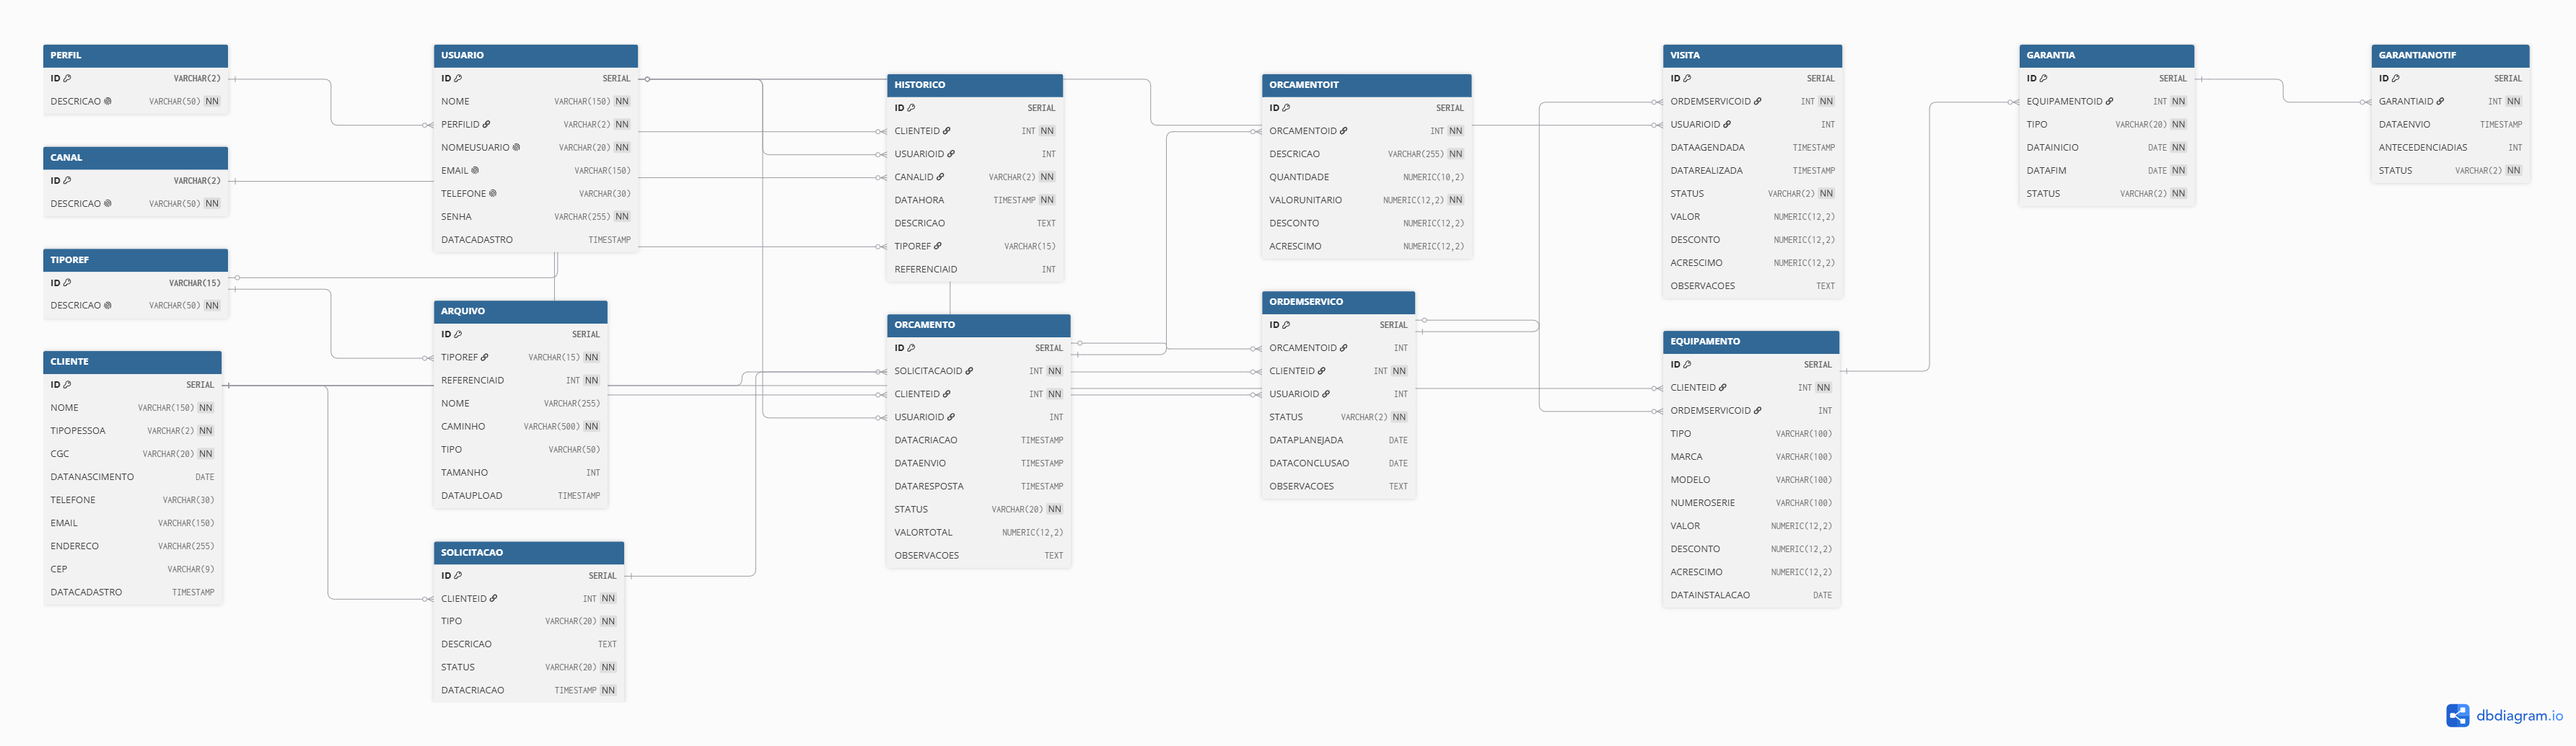
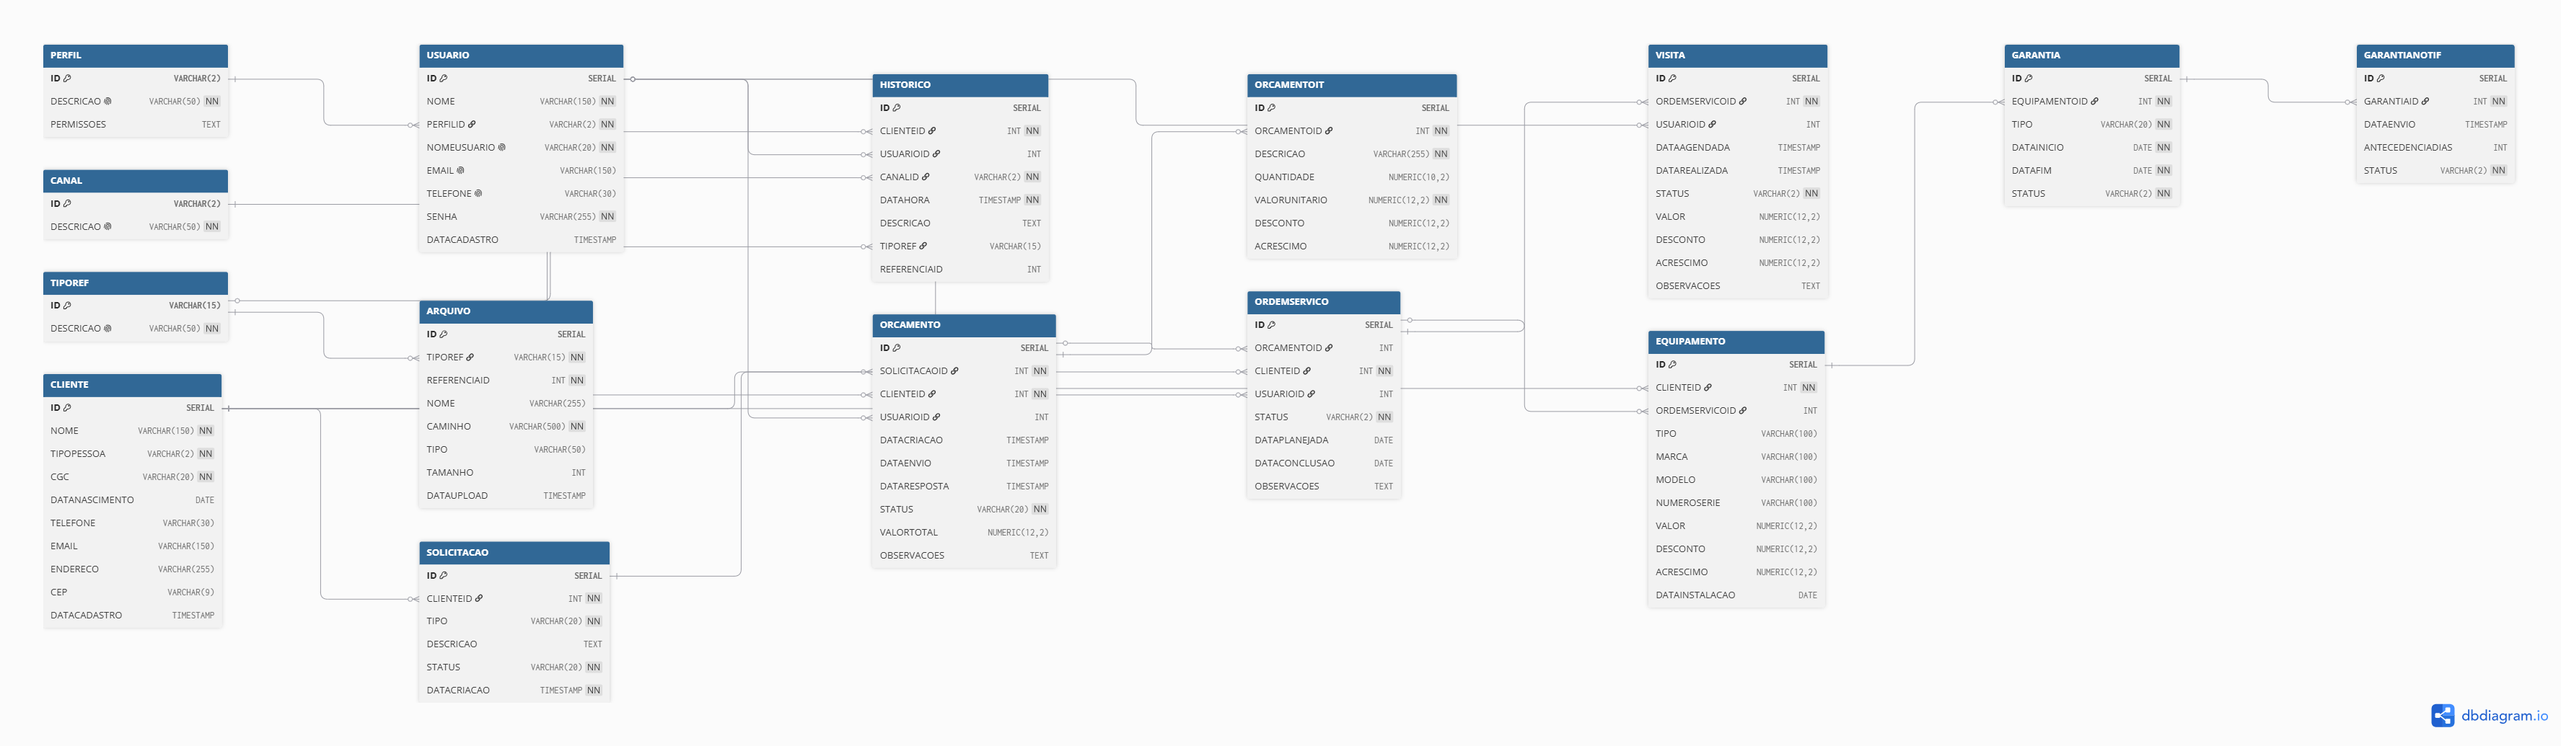
add permissoes de perfil

diff --git a/prisma/seed.ts b/prisma/seed.ts
@@ -4,9 +4,9 @@ import { prisma } from "../lib/prisma";
 async function main() {
   await prisma.perfil.createMany({
     data: [
-      { id: "V", descricao: "Vendedor" },
-      { id: "T", descricao: "Técnico" },
-      { id: "A", descricao: "Administrador" },
+      { id: "V", descricao: "Vendedor", permissoes: "" },
+      { id: "T", descricao: "Técnico", permissoes: "" },
+      { id: "A", descricao: "Administrador", permissoes: "" },
     ],
     skipDuplicates: true,
   });
